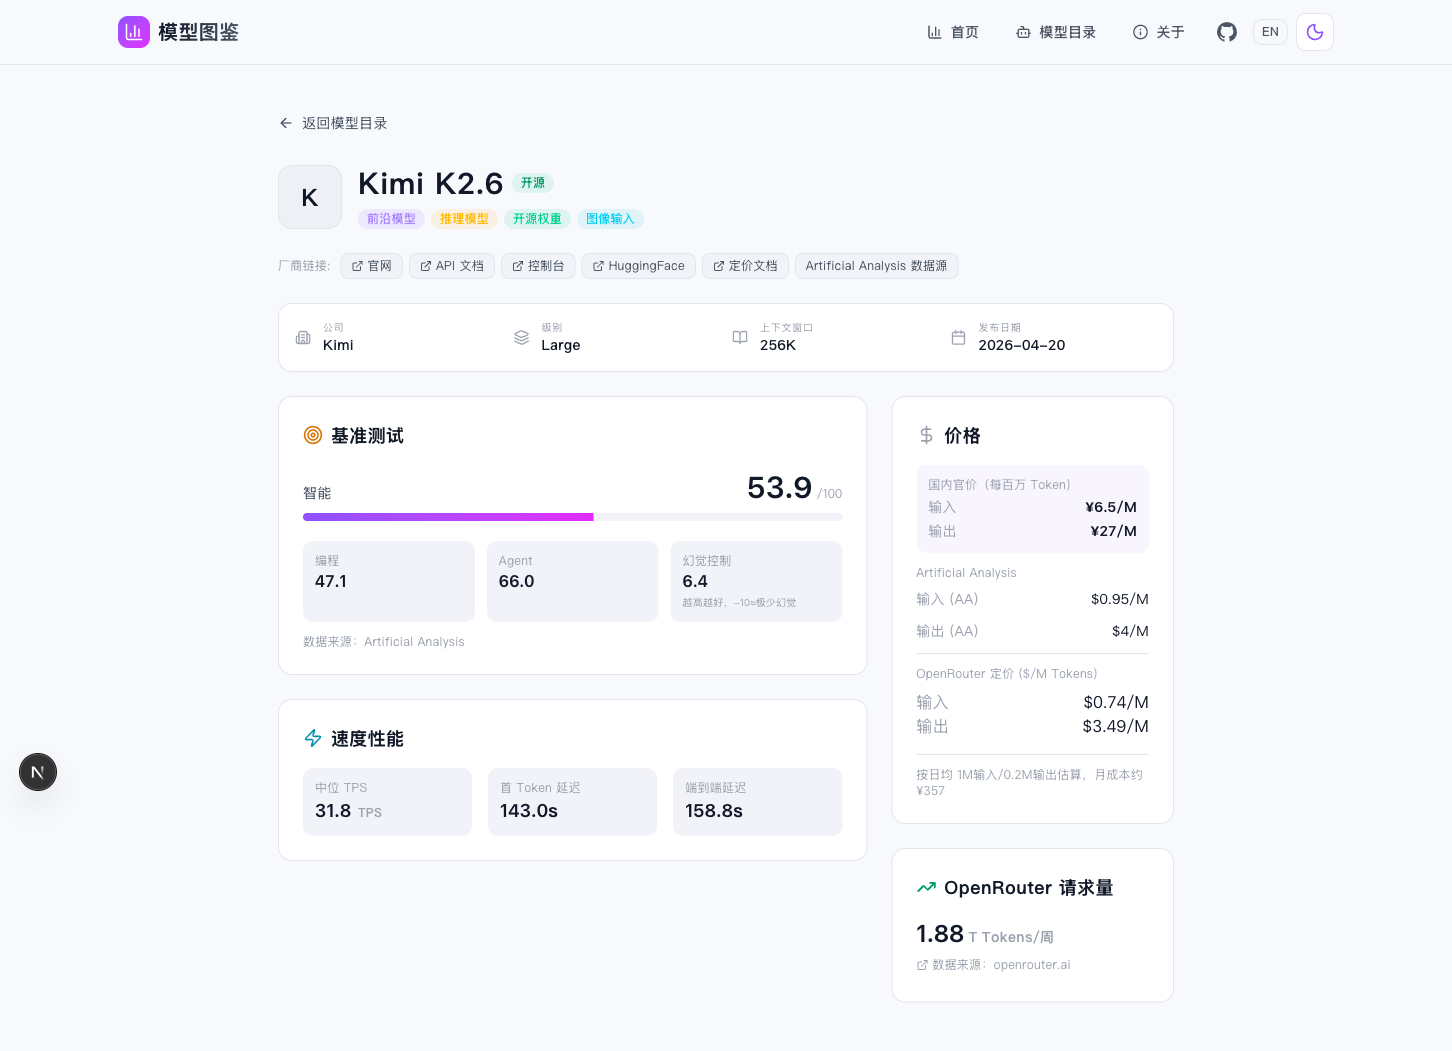
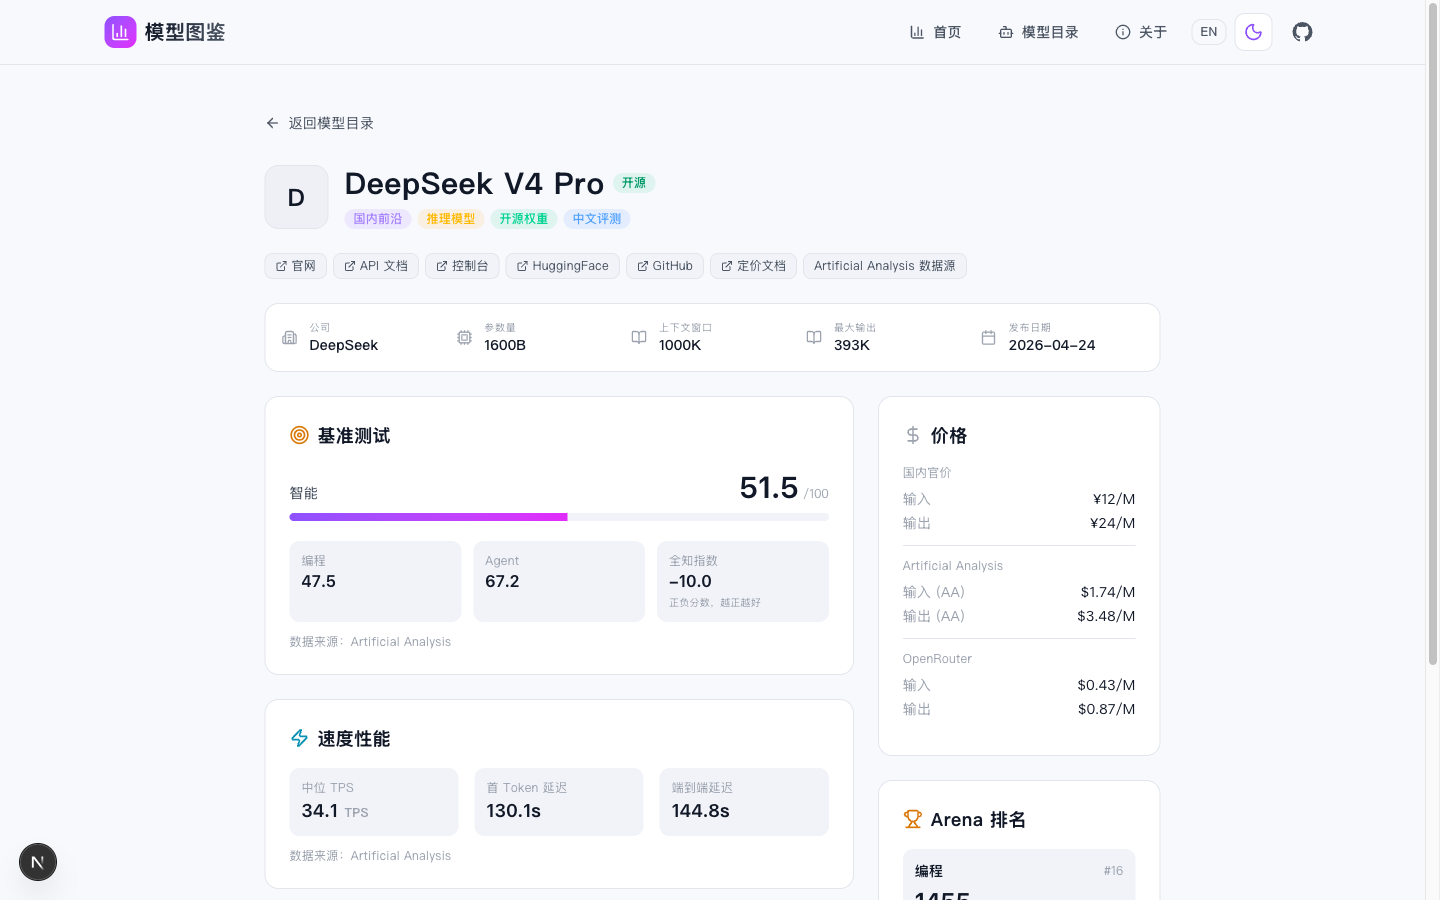
docs: update README and screenshots
- Add models page screenshot showing international/domestic grouping
- Update feature list: Arena rankings, programming/agent scores,
  frontier/mainstream grouping, international benchmarks
- Correct model count to 21 (3 intl + 18 domestic)
- Refresh homepage and detail page screenshots

diff --git a/README.md b/README.md
@@ -4,20 +4,26 @@
 
 [在线浏览](https://llmcompare.cc) · [GitHub](https://github.com/citrusli2026/llmcompare)
 
-<img src="docs/screenshots/screenshot_home.png" alt="首页截图" width="50%" />
+<img src="docs/screenshots/screenshot_home.png" alt="首页截图" width="80%" />
 
-<img src="docs/screenshots/screenshot_detail.png" alt="详情截图" width="50%" />
+<img src="docs/screenshots/screenshot_models.png" alt="模型目录截图" width="80%" />
+
+<img src="docs/screenshots/screenshot_detail.png" alt="详情页截图" width="80%" />
 
 ## 关于项目
 
 模型图鉴是一个开源数据项目，收集和整理国内各大语言模型的公开数据，包括：
 
 - **智能评分** — 综合 MMLU、HumanEval、MATH 等基准测试（来源：Artificial Analysis）
-- **API 速度** — 中位输出速度 (TPS)、首 Token 延迟
+- **编程能力** — Artificial Analysis 编程专项评分
+- **Agent 能力** — Artificial Analysis Agent 专项评分
+- **Arena 排名** — lmarena.ai 编程/视觉排行榜 ELO 分数
 - **官方定价** — 各厂商标准 API 定价 + OpenRouter 市场行情定价
 - **Token 消耗** — 周度 API 调用量排名（来源：OpenRouter）
 
-目前收录约 30 个国内活跃大模型，数据每周更新。
+国际标杆模型（GPT-5.5 / Claude / Gemini）固定置顶，不参与排序，供横向对比。国内模型按前沿/主力分组，各组内部独立排序。
+
+目前收录 21 个活跃大模型（含 3 个国际标杆），数据每周更新。
 
 ## 本地运行
 
